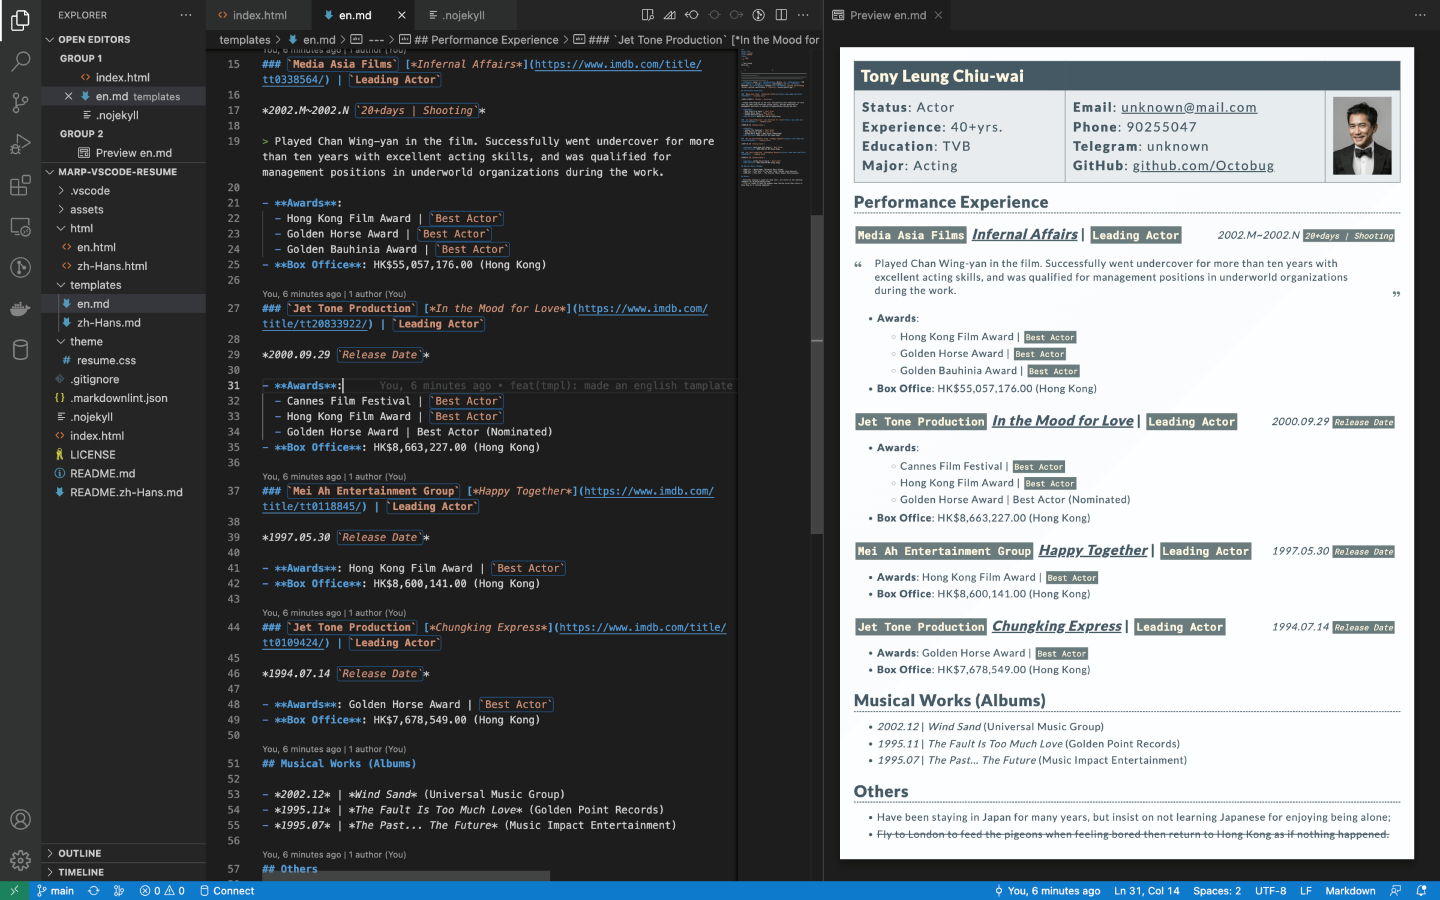
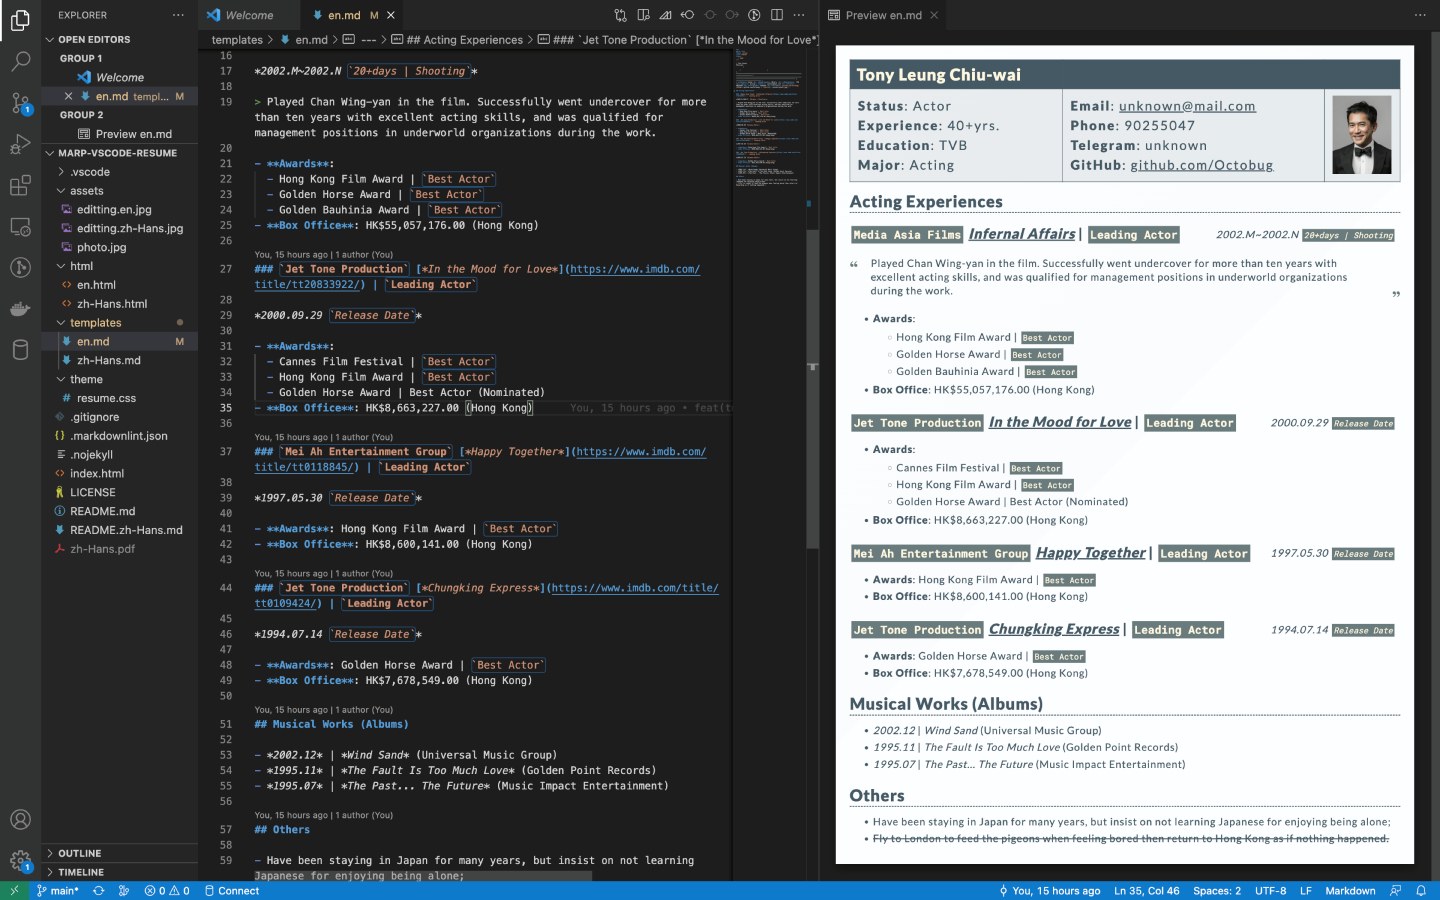
chore: improve translation

Changed region(s): [[0.0312, 0.0, 1.0, 0.9956], [0.375, 0.3422, 0.5, 0.3733], [0.0625, 0.0622, 0.0938, 0.0933]]

diff --git a/html/en.html b/html/en.html
@@ -43,7 +43,7 @@
 </tr>
 </tbody>
 </table>
-<h2>Performance Experience</h2>
+<h2>Acting Experiences</h2>
 <h3><code>Media Asia Films</code> <a href="https://www.imdb.com/title/tt0338564/"><em>Infernal Affairs</em></a> | <code>Leading Actor</code></h3>
 <p><em>2002.M~2002.N <code>20+days | Shooting</code></em></p>
 <blockquote>

diff --git a/templates/en.md b/templates/en.md
@@ -10,7 +10,7 @@ class:
 | ---------------------------------------------------------------------------------------------- | ------------------------------------------------------------------------------------------------------------------------------------------------- | ----------------------------- |
 | **Status**: Actor <br> **Experience**: 40+yrs. <br> **Education**:  TVB <br> **Major**: Acting | **Email**: unknown@mail.com <br> **Phone**: 90255047 <br> **Telegram**: unknown <br> **GitHub**: [github.com/Octobug](https://github.com/Octobug) | ![photo](../assets/photo.jpg) |
 
-## Performance Experience
+## Acting Experiences
 
 ### `Media Asia Films` [*Infernal Affairs*](https://www.imdb.com/title/tt0338564/) | `Leading Actor`
 
